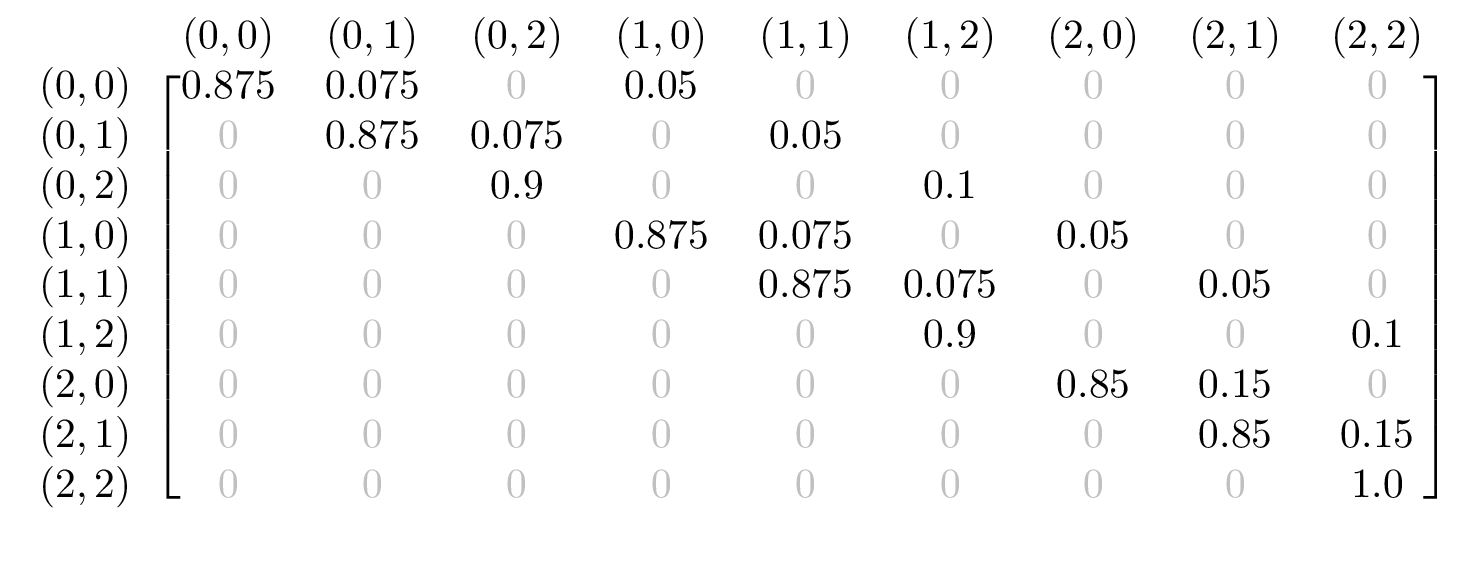
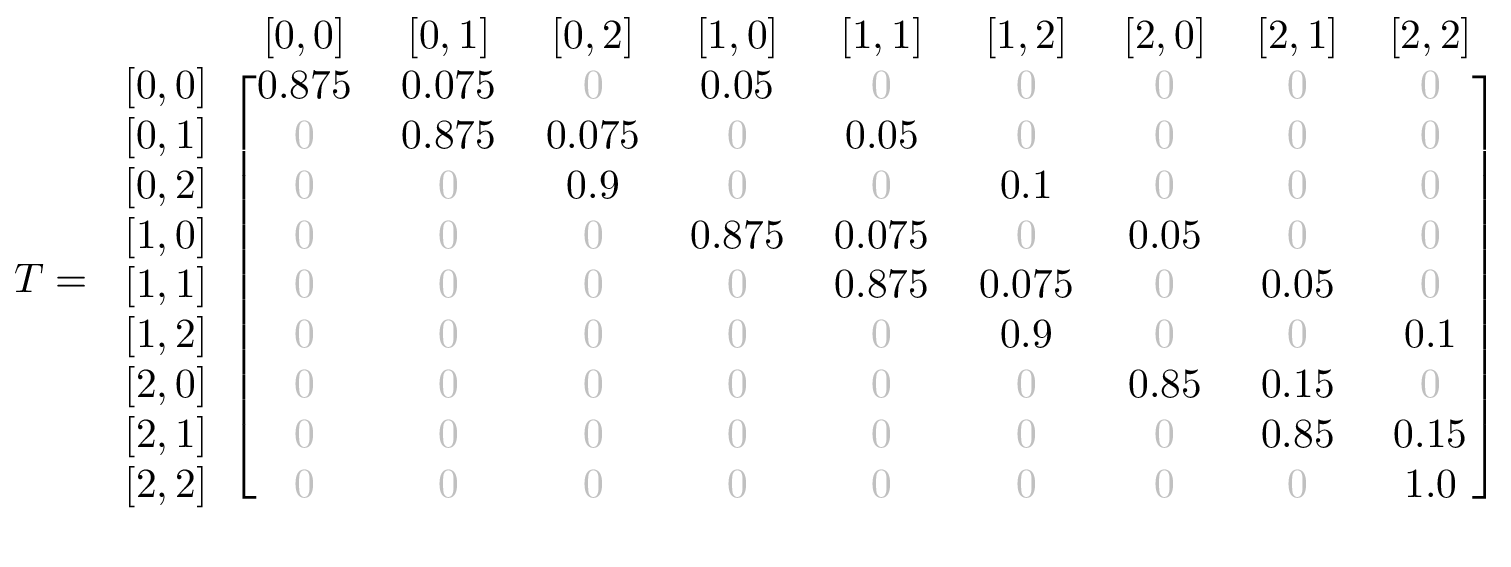
very good draft of commuter post

diff --git a/_drafts/2017-05-19-speeding_commuters.md b/_drafts/2017-05-19-speeding_commuters.md
@@ -8,38 +8,43 @@ header-credit: https://unsplash.com/@glebson
 tags:       programming riddler probability
 ---
 
-> From Jerry Meyers, a careening commute problem:
+This week's [riddler](http://fivethirtyeight.com/features/the-battle-for-riddler-nation-round-2/) was a solid one, not too difficult, but still a challenge!
 
-> Four co-workers carpool to work each day. A driver is selected randomly for the drive to work and again randomly for the drive home. Each of the drivers has a lead foot, and each has a chance of being ticketed for speeding. Driver A has a 10 percent chance of getting a ticket each time he drives, Driver B a 15 percent chance, Driver C a 20 percent chance, and Driver D a 25 percent chance. The state will immediately revoke the license of a driver after his or her third ticket, and a driver will stop driving in the carpool once his license is revoked. Since there is only one police officer on the carpool rout, a maximum of one ticket will be issued per morning and a max of one per evening.
-
+> From Jerry Meyers, a careening commute problem:  
+> &nbsp;  
+> Our co-workers carpool to work each day. A driver is selected randomly for the drive to work and again randomly for the drive home. Each of the drivers has a lead foot, and each has a chance of being ticketed for speeding. Driver A has a 10 percent chance of getting a ticket each time he drives, Driver B a 15 percent chance, Driver C a 20 percent chance, and Driver D a 25 percent chance. The state will immediately revoke the license of a driver after his or her third ticket, and a driver will stop driving in the carpool once his license is revoked. Since there is only one police officer on the carpool rout, a maximum of one ticket will be issued per morning and a max of one per evening.    
+> &nbsp;  
 > Assuming that all four drivers start with no tickets, how many days can we expect the carpool to last until all the drivers have lost their licenses?
 
-## Observations
-First, let's make some observations about the problem.  At the beginning of each trip, each driver will have some amount of tickets.  I'm going to refer to these amounts as a **state**.  For example, if Drivers A & B each had 1 ticket, I'll write that state as `[1, 1, 0, 0]`.
+# Observations
+First, let's make some observations about the problem.  At the beginning of each trip, each driver will have some amount of tickets.  I'm going to refer to these amounts as a **state**.  For example, if Drivers A & B each had 1 ticket, I'll write that state as `[1, 1, 0, 0]`. The intial state is `[0, 0, 0, 0]`.
 
-#### 1. There are a limited number of possiblities for how tickets could be distributed amongst the drivers
-Each driver starts with 0 tickets and stops receiving them after their 3rd.  Because there are a limited number of ticket counts, and a limited number of drivers, there is a finite number of ways that tickets can be distributed amongst our drivers.
+#### 1. There are a limited number of states
+Each driver starts with 0 tickets and stops receiving them after their 3rd.  Because there is a cap on the amount of tickets, and a fixed number of drivers, there is a finite number of ways that tickets can be distributed amongst our drivers.
 
-This finite number of states is the number of ways that 0,1,2, or 3 can be arranged, including repeats, across the 4 drivers.  With 4 possible ticket amounts over 4 drivers, this will result in $$4^4$$ ,or 256, possible distributions of tickets amongst the drivers.
+The actual number of states is the number of ways that 0, 1, 2, or 3 can be arranged, including repeats, across the 4 drivers.  With 4 possible ticket amounts over 4 drivers, this will result in $$4^4$$ or 256 unique states.
 
-#### 2. The possibility of a driver receiving a ticket does not depend on the order that tickets were issued in
-There is no impact of the past on the likelihood that an individual driver will receive a ticket.  If Driver A and Driver B each have 1 ticket, the likelihood that Driver C will receive a ticket is not influenced by the order that A and B received their ticket.  The only factors that influence each drivers likelihood of receiving a ticket are:
-* the number of drivers remaining (more drivers means it's less likely that any individual driver will be selected randomly)
-* their lead foot (i.e. their individual ticket probability)
+#### 2. The probability for a ticket to be issued depends only on the state at that time.
+If Driver A and Driver B each have 1 ticket, the probability that Driver C will receive a ticket is the same no matter the order that A and B received their tickets.  The only factors that influence each driver's probability of receiving a ticket are:
+* the number of drivers remaining (more drivers means it's less likely that any particular driver will be selected)
+* their individual ticket probability
 
-#### 3. The state where all drivers have received the maximum number of tickets can be reached from any other state.
-To rephrase this, if you picked any distribution of tickets, e.g. `[0, 1, 2, 0]` or `[3, 0, 0, 1]` or `[1, 3, 2, 3]`, you can reach the end state, `[3, 3, 3, 3]`. Intuitively, this makes sense because any drivers with fewer than `3` tickets will continue to accumulate tickets until they also have `3`.  This is probably the most abstract of all of these observations, but it's important to the solution, so stick around!
 
-To summarize what we've learned so far:
-* the number of possible ticket distributions is finite
-* the probability for a ticket to be issued depends only on the state at that time. 
-* there is an end state that can be reached from any other state
+#### 3. The state where all drivers have received the maximum number of tickets can be reached from any other state
+The end state is the one where all drivers have received their maximum number of tickets, `[3, 3, 3, 3]`.
 
-## Markov Chains
+If I selected a distribution of tickets at random, e.g. `[0, 1, 2, 0]`, it's possible to reach the end state by issuing tickets.  No matter which state we pick, we can always make our way to the end state.  This is probably the most abstract of all of these observations, but it's important to the solution, so stick around!
 
-These observations hint that a good possible method is using [Markov chains](https://en.wikipedia.org/wiki/Markov_chain).  A *Markov process* is a process with randomness that doesn't depend on previous state (it is "memoryless").  A *Markov chain* is a way to represent a Markov process that has a finite number of states.
+#### In summary:
+1. the number of states (ticket distributions) is finite.
+2. the probability for a ticket to be issued depends only on the state at that time.
+3. there is an end state that can be reached from any other state.
 
-As an example, let's preted tomorrow's weather depends only on today's weather, and there are only two types of weather **rainy** and **sunny**.  The weather follows these rules:
+# Markov Chains
+
+These observations lead me to think that describing this scenario as a [Markov chains](https://en.wikipedia.org/wiki/Markov_chain) might be a good method to solve this problem.  A *Markov process* is a process with some randomness that doesn't depend on previous state, i.e. it is "memoryless".  A *Markov chain* is a way to represent one of these processes, given it has a finite number of states.
+
+As an example, let's pretend tomorrow's weather depends only on today's weather, and there are only two types of weather, **rainy** or **sunny**.  The weather follows these rules:
 * If it's sunny today, tommorow's weather is: 
   * 90% likely sunny.
   * 10% likely rainy.
@@ -50,53 +55,121 @@ As an example, let's preted tomorrow's weather depends only on today's weather, 
 This can be visualized like this:
 ![weather_markov]({{ site.baseurl }}/img/posts/speeding_commuters/Markov_Chain_weather_model_matrix_as_a_graph.png)
 
-This can be represented mathematically as a [transition matrix](https://en.wikipedia.org/wiki/Stochastic_matrix).  In this matrix, the row represents the current state, and each column represents the next state.  The number at the each intersection is the probability of transitioning from that row's state to that columns's state.  Here is the above model as a matrix:
+and it can also be written as a [transition matrix](https://en.wikipedia.org/wiki/Stochastic_matrix).  In this matrix, each number represents the probability that, if the chain is currently in the state of the row, it will transition to the state in the column.  The weather model as a transition matrix is:
 
 $$
-T = 
+T =
 \begin{matrix}
-    &
-    \begin{matrix}
-    S & R
-    \end{matrix}
-    \\
-    \begin{matrix}
-    S \\ R
-    \end{matrix}
-    &
-    \begin{bmatrix}
-    0.9 & 0.1 \\
-    0.5 & 0.5
-    \end{bmatrix}
+ &
+ \begin{matrix}
+ S & R \\
+ \end{matrix}
+ \\
+ \begin{matrix}
+ S \\ R
+ \end{matrix}
+ &
+  \begin{bmatrix}
+ 0.9 & \textbf{0.1} \\
+ 0.5 & 0.5 \\
+ \end{bmatrix}
 \end{matrix}
 $$
 
-This accounts for observations 1 & 2 above, but why do we care about observation 3?
+The bolded entry in the matrix is highlighting that the probability to transition from **sunny** to **rainy** is 0.1.
 
-### Absorbing State
+## This relates how?
+You might be wondering where this jump to Markov chains came from.  Hopefully I can tie the two things back together now so we can see how a Markov chain applies to our riddle.
 
-OIur last observation was important because it means we can use an even more specific Markov chain called an [Absorbing Markov chain](https://en.wikipedia.org/wiki/Absorbing_Markov_chain).  A chain is abosorbing if:
-* it has an "absorbing" state, which is one that cannot be left once it's entered.
+How we can use Markov chains to our advantage is to set our riddle up as follows.  Take each possible state of ticket distribution, and make that a state in our Markov chain.  Because of observations **1** and **2** above, our process meets the criteria to be a proper Markov chain.  What this means is that if we calculated the probabilities to move between these states, we could make a transition matrix that represents the entire riddle, starting from 0 tickets to the time when all drivers are suspended.
+
+What we need next is to explain why observation **3** is critical 
+
+## Absorbing State
+
+Our last observation was important because it allows us to use an even more specific Markov chain called an [Absorbing Markov chain](https://en.wikipedia.org/wiki/Absorbing_Markov_chain).  A chain is abosorbing if:
+* it has an "absorbing" state, which is one that cannot be left once it's entered.  Our absorbing state is the end state, where each driver has the maximum number of tickets.
 * that absorbing state can be reached from any other state in a finite number of steps.
 
-## Probability of getting a ticket
+The advantage of having an absorbing state, is that the transition matrix can be put into the following form (simplified because we only have 1 absorbing state): 
 
-This leads to an important part of this solution, how do we get this matrix for our problem?
+$$T =
+\left(
+\begin{array}{cc}
+ Q & R\\
+ [0 \dots 0] & 1
+\end{array}
+\right)$$    
 
-If we take a random initial state: `[1, 1, 2, 0]`, let's calculate the probability of Driver A receiving another ticket on the next trip (`[2, 1, 2, 0]`).  We know that at the start of the trip, a driver is randomly selected from those with fewer than three tickets.  In this case, all drivers are eligable, so Driver A has a 25% chance of being selected.  If Driver A is selected, there is a 10% chance that they receive a ticket.  .25 * .10 = .025.  The probability of transitioning from `[1, 1, 2, 0]` -> `[2, 1, 2, 0]` is 0.025.
+* $$R$$ is an array of probabilities of entering the absorbing state from any of the other states
+* $$Q$$ is the transition matrix between the non-absorbing states.
+* $$[0 \dots 0]$$ just shows that the bottom row is all 0 except the last column
 
-So we can create a function that calculates these probabilities for any two states.  Transitions are only possible between two states where exactly 1 ticket has been issued to exactly 1 driver, or no tickets have been issued.  Any other transitions has 0 probability.
+Observation **3** is critical because absorbing Markov chains have special properties that **allow for direct calculation of the expected number of steps to reach an absorbing state, starting from any other state**.  Because our absorbing state is that all drivers are suspended, and we can start with all drivers having 0 tickets, this is exactly what we're trying to calculate!
 
-The probability that no ticket has been issued can be found by adding all the probabilities that tickets have been issued, and subtracting that from 1.
+The fundamental matrix $$N$$ represents the expected number of times the chain is in the column state, given that the chain started in the row state.
+
+$$N = (I - Q)^{-1}$$
+
+$$I$$ is an [identity matrix](https://en.wikipedia.org/wiki/Identity_matrix) of the same size as $$Q$$
+
+## Feeling lucky?
+
+The next important part of our solution is calculating the probability that a driver receives a ticket.
+
+We know that for each trip, there are $$x$$ available drivers, where $$x$$ is the number of drivers that do not have 3 tickets.  This means each driver has a $$\frac{1}{x}$$ chance of being selected to drive that trip.  Additionally, we know that each driver has a probability $$p$$ that they will receive a ticket *if they drive*.  This means that for each trip, *before the driver is selected*, the probability that an individual driver will be ticketed is $$\frac{1}{x} \times p$$. For example, assume the state is `[1, 1, 2, 0]`.  All 4 drivers are available, so $$x$$=4.  Driver C's $$p$$ is 0.20.  This makes Driver C's probability of receiving a ticket $$\frac{0.20}{4} = 0.05$$.
+
+If the state was `[3, 1, 2, 0]` instead, Driver C would be more likely to receive a ticket because it's more likely they will be selected at random to drive!  Their ticket probability is now $$\frac{0.20}{3} = 0.067$$.
+
+Because tickets cannot be taken away, and only 1 can be issued per trip, transitions are only possible between two states where exactly 1 ticket has been issued to exactly 1 driver, or no tickets have been issued.  The probability that no ticket will been issued can be found by adding all the probabilities that each individual driver will receive a ticket and subtracting that from 1.
+
+# Give an example already!
+
+Ok, that's enough theory for now.  To make things easier to view, let's modify the problem slightly.  Instead of our original problem parameters, assume there are only Drivers A and B (same probabilities), and that licenses are suspended after **2** tickets instead of 3.  This will reduce the number of possible states.
+
+The possible states of ticket distribution amongst our two drivers are:
+$$
+\begin{array}{ccccccccc}
+[0, 0] & [0, 1] & [0, 2] & [1, 0] & [1, 1] & [1, 2] & [2, 0] & [2, 1] & [2,2] \\
+\end{array}
+$$ 
+
+
+All of the probabilities for transitioning are now calculated, and are show on the full Markov chain:
+![ex_chain]({{ site.baseurl }}/img/posts/speeding_commuters/example_chain.png)
+
+The resulting translation matrix for our scenario is:
+
+![prob_mat]({{ site.baseurl }}/img/posts/speeding_commuters/prob_matrix.png)
+
+We can double check that our translation matrix is plausible by confirming the following assumptions:
+* there are no possible transitions that reduce the number of tickets
+* there are no possible transitions that issue 2 tickers in 1 trip
+* the end state can only be transitioned to from `[1, 2]` and `[2, 1]`
+* rows sum to 1
+
+Further breaking the translation matrix down into the fundamental matrix, we get the following submatrices
+![prob_mat_canon]({{ site.baseurl }}/img/posts/speeding_commuters/prob_matrix_canonical.png)
+
+![q_mat]({{ site.baseurl }}/img/posts/speeding_commuters/q_matrix.png)
+
+![n_mat]({{ site.baseurl }}/img/posts/speeding_commuters/n_matrix.png)
+
+![e_mat]({{ site.baseurl }}/img/posts/speeding_commuters/e_matrix.png)
+
+This tells us that we should expect 33.33 trips, or ~16.5 days for both of our drivers to be suspended.  If both of our drivers started with 1 ticket, it would take exactly half as long, or a little over 8 days.
+
+Now all that's left to do it perform this same analysis on the original problem parameters of 3 tickets and all the drivers.  Running through the numbers shows that we should expect all drivers to be suspended at **38.5 days**.
+
+below is the python code I used to perform the number-crunching.
 
 
 ```python
 import numpy as np
 import itertools
-from collections import Counter
-from sympy import init_printing, Matrix
+from sympy import init_printing
 from sympy.physics.vector import vlatex
-init_printing(latex_printer=vlatex, latex_mode='equation')
+init_printing(latex_printer=vlatex)
 ```
 
 
@@ -119,81 +192,49 @@ def transition_probability(initial, final, ticket_probs, ticket_limit=3):
         return 0    
 ```
 
-## Smaller example
-
-Let's run through an example that might help tie everything together.  Instead of our original problem parameters, assume there are only Drivers A and B, and that licenses are suspended after 2 tickets instead of 3.  This will greatly reduce the number of possible states.
-
 
 ```python
-max_tickets = 2
-ticket_probs = np.array([0.10, 0.15])
-num_drivers = len(ticket_probs)
-```
+def expected_days_all_suspended(max_tickets, ticket_probs):
+    num_drivers = len(ticket_probs)
+    
+    ticket_states = list(itertools.product(range(0, max_tickets+1), repeat=num_drivers))
+    num_ticket_states = len(ticket_states)
+    
+    probability_matrix = np.zeros((num_ticket_states,num_ticket_states))
 
+    for row, start_state in enumerate(ticket_states):
+        for col, end_state in enumerate(ticket_states):
+            probability_matrix[row][col] = transition_probability(start_state,
+                                                                  end_state,
+                                                                  ticket_probs,
+                                                                  max_tickets)
 
-```python
-ticket_states = list(itertools.product(range(0, max_tickets+1), repeat=num_drivers))
-num_ticket_states = len(ticket_states)
-```
-
-Here are all the possible ways that tickets could be distributed across our two drivers:
-
-![states]({{ site.baseurl }}/img/posts/speeding_commuters/states.png)
-
-
-```python
-probability_matrix = np.zeros((num_ticket_states,num_ticket_states))
-
-for row, start_state in enumerate(ticket_states):
-    for col, end_state in enumerate(ticket_states):
-        probability_matrix[row][col] = transition_probability(start_state,
-                                                              end_state,
-                                                              ticket_probs,
-                                                              max_tickets)
+    for row,col in zip(*np.diag_indices_from(probability_matrix)):
+        probability_matrix[row][col] = 1 - np.sum(probability_matrix[row])
         
-for row,col in zip(*np.diag_indices_from(probability_matrix)):
-    probability_matrix[row][col] = 1 - np.sum(probability_matrix[row])
-```
-
-![prob_mat]({{ site.baseurl }}/img/posts/speeding_commuters/prob_matrix.png)
-
-
-```python
-max_tickets = 3
-ticket_probs = np.array([0.10, 0.15, 0.20, 0.25])
-num_drivers = len(ticket_probs)
+    q = np.mat(probability_matrix[:-1,:-1])
+    i = np.identity(num_ticket_states - 1)
+    n = np.linalg.inv(i - q)
+    
+    expected_trips_to_states = np.array(n * np.ones((num_ticket_states-1,1)))
+    return expected_trips_to_states[0][0] / 2 # 2 trips per day
 ```
 
 
 ```python
-ticket_states = list(itertools.product(range(0, max_tickets+1), repeat=num_drivers))
-num_ticket_states = len(ticket_states)
+expected_days_all_suspended(2, [0.10, 0.15])
 ```
 
 
-```python
-probability_matrix = np.zeros((num_ticket_states,num_ticket_states))
 
-for row, start_state in enumerate(ticket_states):
-    for col, end_state in enumerate(ticket_states):
-        probability_matrix[row][col] = transition_probability(start_state,
-                                                              end_state,
-                                                              ticket_probs,
-                                                              max_tickets)
-        
-for row,col in zip(*np.diag_indices_from(probability_matrix)):
-    probability_matrix[row][col] = 1 - np.sum(probability_matrix[row])
-```
+
+$$16.6666666667$$
+
+
 
 
 ```python
-q = np.mat(probability_matrix[:-1,:-1])
-i = np.identity(num_ticket_states - 1)
-n = np.linalg.inv(i - q)
-expected_trips_to_states = np.array(n * np.ones((num_ticket_states-1,1)))
-expected_trips_to_all_suspended = expected_trips_to_states[0][0]
-expected_days_to_all_suspended = expected_trips_to_all_suspended / 2
-expected_days_to_all_suspended
+expected_days_all_suspended(3, [0.10, 0.15, 0.20, 0.25])
 ```
 
 
@@ -206,8 +247,3 @@ $$38.5$$
 http://www4.stat.ncsu.edu/~jaosborn/research/RISK.pdf    
 http://www.datagenetics.com/blog/november12011/    
 http://www.math.uiuc.edu/~bishop/monopoly.pdf
-
-
-```python
-
-```
